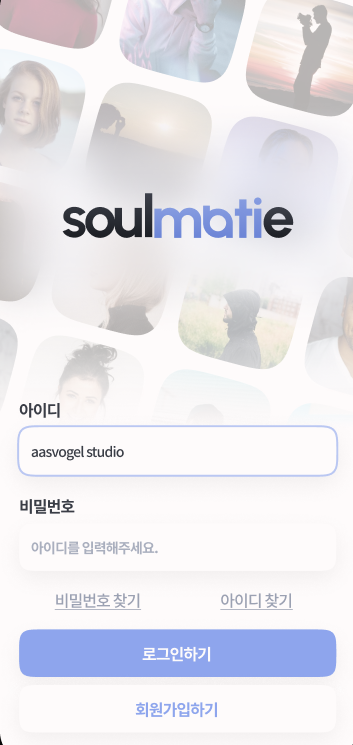
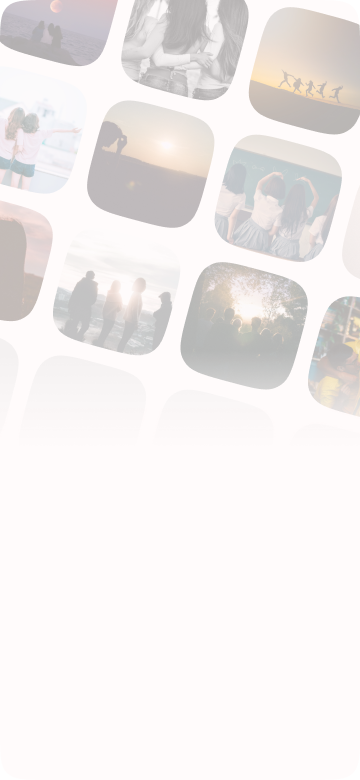
💄 로그인 페이지 디자인 수정

diff --git a/lib/pages/login/loginPage.dart b/lib/pages/login/loginPage.dart
@@ -1,11 +1,12 @@
 import 'package:firebase_messaging/firebase_messaging.dart';
 import 'package:flutter/material.dart';
 import 'package:flutter/widgets.dart';
+import 'package:flutter_svg/flutter_svg.dart';
 import 'package:frontend_matching/config.dart';
 import 'package:frontend_matching/controllers/user_data_controller.dart';
 import 'package:frontend_matching/pages/login/bottomLayer.dart';
 import 'package:get/get.dart';
-
+import 'dart:ui' as ui;
 import '../../controllers/bottomNavigationBar.dart';
 import '../chatting_room/chatting_room_page.dart';
 
@@ -28,6 +29,20 @@ class _LoginPageState extends State<LoginPage> {
             child: Image.asset(
               'assets/images/brand.png',
               fit: BoxFit.cover, // 전체 화면으로 배경
+            ),
+          ),
+          Positioned.fill(
+            bottom: Get.height / 2,
+            child: ClipRect(
+              child: BackdropFilter(
+                filter: ui.ImageFilter.blur(sigmaX: 2.0, sigmaY: 2.0),
+                child: Padding(
+                  padding: const EdgeInsets.all(20),
+                  child: SvgPicture.asset(
+                    'assets/images/logo.svg',
+                  ),
+                ),
+              ),
             ),
           ),
           Align(
